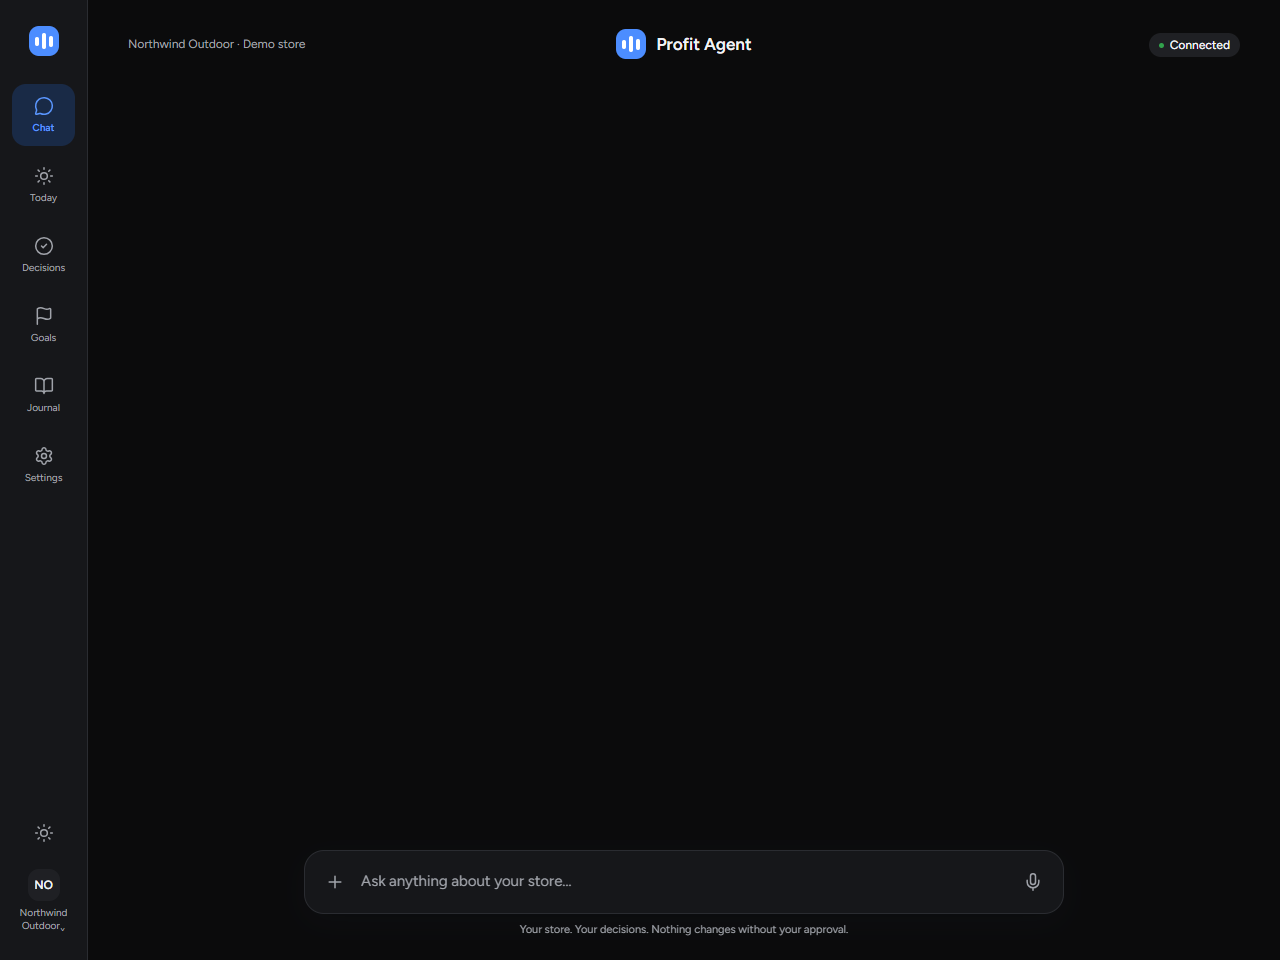
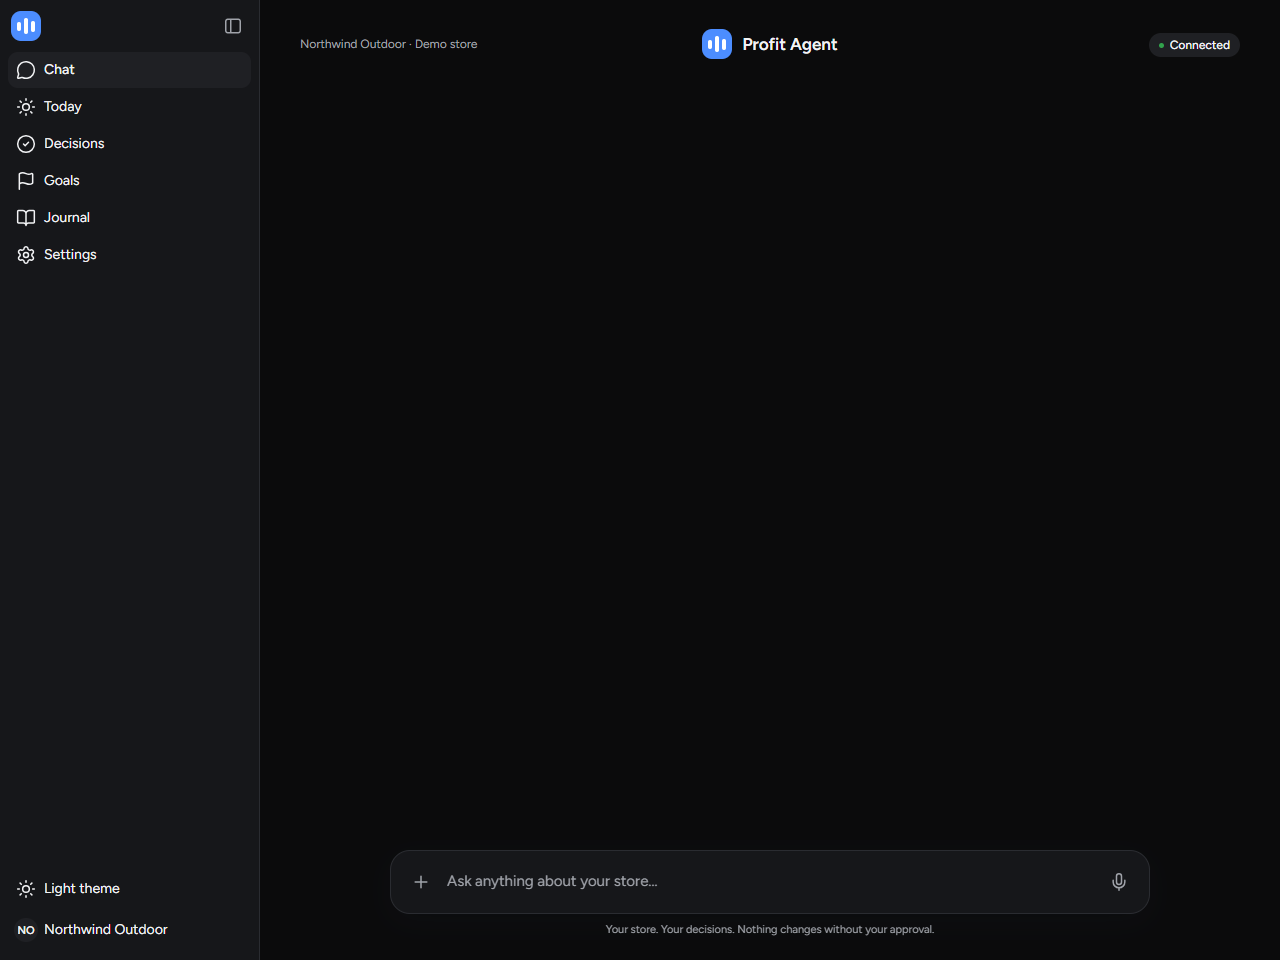
docs(web): page 1 screens with the sidebar
The shell's screens show the sidebar expanded, in both themes, and the
differences list explains it replaces Figma's rail at the owner's
request.

diff --git a/docs/screens/page-1/README.md b/docs/screens/page-1/README.md
@@ -39,7 +39,12 @@ session (the sign-in frame, the estimate sheet, the header and the composer).
    address). The sign-in page drops "By continuing, you agree to our Terms and Privacy
    Policy" and the footer's "Privacy" and "Help": those pages do not exist yet. The footer shows the
    product name.
-6. **Development build only:** "Use the demo store" under the sign-in form, and the `/style-guide`
+6. **The sidebar (the owner's request after page 1).** Figma's 88 px rail, with labels under the
+   icons, is replaced by a sidebar that works like ChatGPT's: expanded (260 px) each destination is
+   an icon and its label in a 36 px row; collapsed (52 px) only the icons, naming themselves on
+   hover; a button at the top switches, and the choice is remembered. The theme and the store are
+   rows at its foot.
+7. **Development build only:** "Use the demo store" under the sign-in form, and the `/style-guide`
    catalogue itself (absent from a production build).
 
 ### Filled by the API (the backend task after page 1)
@@ -58,33 +63,33 @@ The first review found gaps in the API; they are filled, and the screens refresh
 
 ### Still different
 
-7. **Connection health.** The header pill says "Connected" from the API's readiness check; Figma's
+8. **Connection health.** The header pill says "Connected" from the API's readiness check; Figma's
    "All systems connected" needs each connection's state (Shopify, Meta Ads), which the API does
    not serve (not part of the backend task).
-8. **The proof of a campaign's number.** Figma's exact proof is the ad spend of one campaign over
+9. **The proof of a campaign's number.** Figma's exact proof is the ad spend of one campaign over
    5 days ("Ad spend, Trail Jacket — Prospecting", 5 rows); the screenshot walks the store's
    lineage to the store-wide ad spend (28 rows, each naming its campaign, 10 at a time). The title
    names the metric; the fact's campaign is not in it. Figma's "Open source in Meta ↗" has no
    counterpart: the API has no link to the platform.
-9. **Formatting.** The API writes "+$613 to +$654" where Figma writes "+$570 to +$614" (other
+10. **Formatting.** The API writes "+$613 to +$654" where Figma writes "+$570 to +$614" (other
    numbers, same form), and exact texts keep their cents ("$1,489.82"). Exact texts are unsigned;
    short texts carry the sign of a change.
-10. **The permission card's options.** The demo decision has three options and "Do nothing": the
+11. **The permission card's options.** The demo decision has three options and "Do nothing": the
     third, "Prepare a reorder of Trail Jacket", has no range (it prepares, it does not act). Figma
     shows two options with ranges.
 
 ### Not built yet (later pages)
 
-11. The conversation is empty: the morning brief, the date line and answers come with page 2. The
+12. The conversation is empty: the morning brief, the date line and answers come with page 2. The
     proof screenshots open over the `/style-guide` catalogue instead of the conversation.
-12. The safety-check line of the catalogue's permission card is written from the option's
+13. The safety-check line of the catalogue's permission card is written from the option's
     reversibility; page 3 shows the policy's real checks (`POST /policy/preview`).
-13. The estimate sheet's caveat is generic ("This is a range, not a promise. Most outcomes land
+14. The estimate sheet's caveat is generic ("This is a range, not a promise. Most outcomes land
     between the low and high ends."); Figma's "I'll measure the result after the ad resumes" and
     "Back to options" belong to a decision's estimate (page 3).
-14. Narrow screens (390 px) are page 9's responsive pass; the shell is laid out for desktop.
+15. Narrow screens (390 px) are page 9's responsive pass; the shell is laid out for desktop.
 
 ### Small visual differences
 
-15. Status dots and range dots are CSS circles; Figma exports them as 5 px SVG dots.
-16. Number buttons get a hover colour and a focus ring; Figma has no states for them.
+16. Status dots and range dots are CSS circles; Figma exports them as 5 px SVG dots.
+17. Number buttons get a hover colour and a focus ring; Figma has no states for them.
